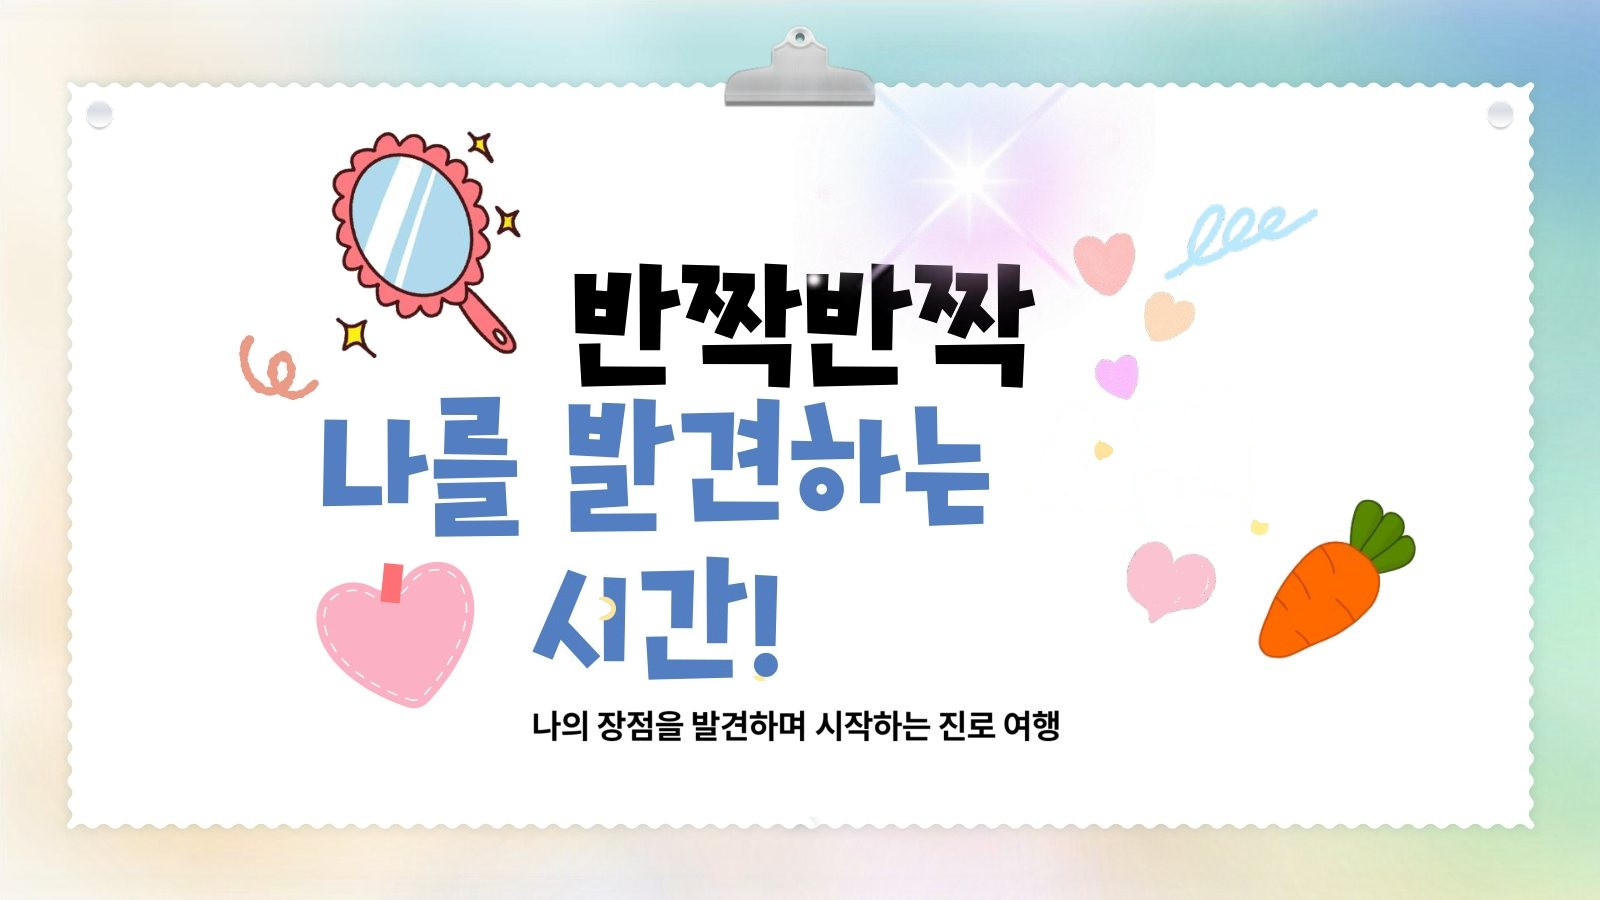
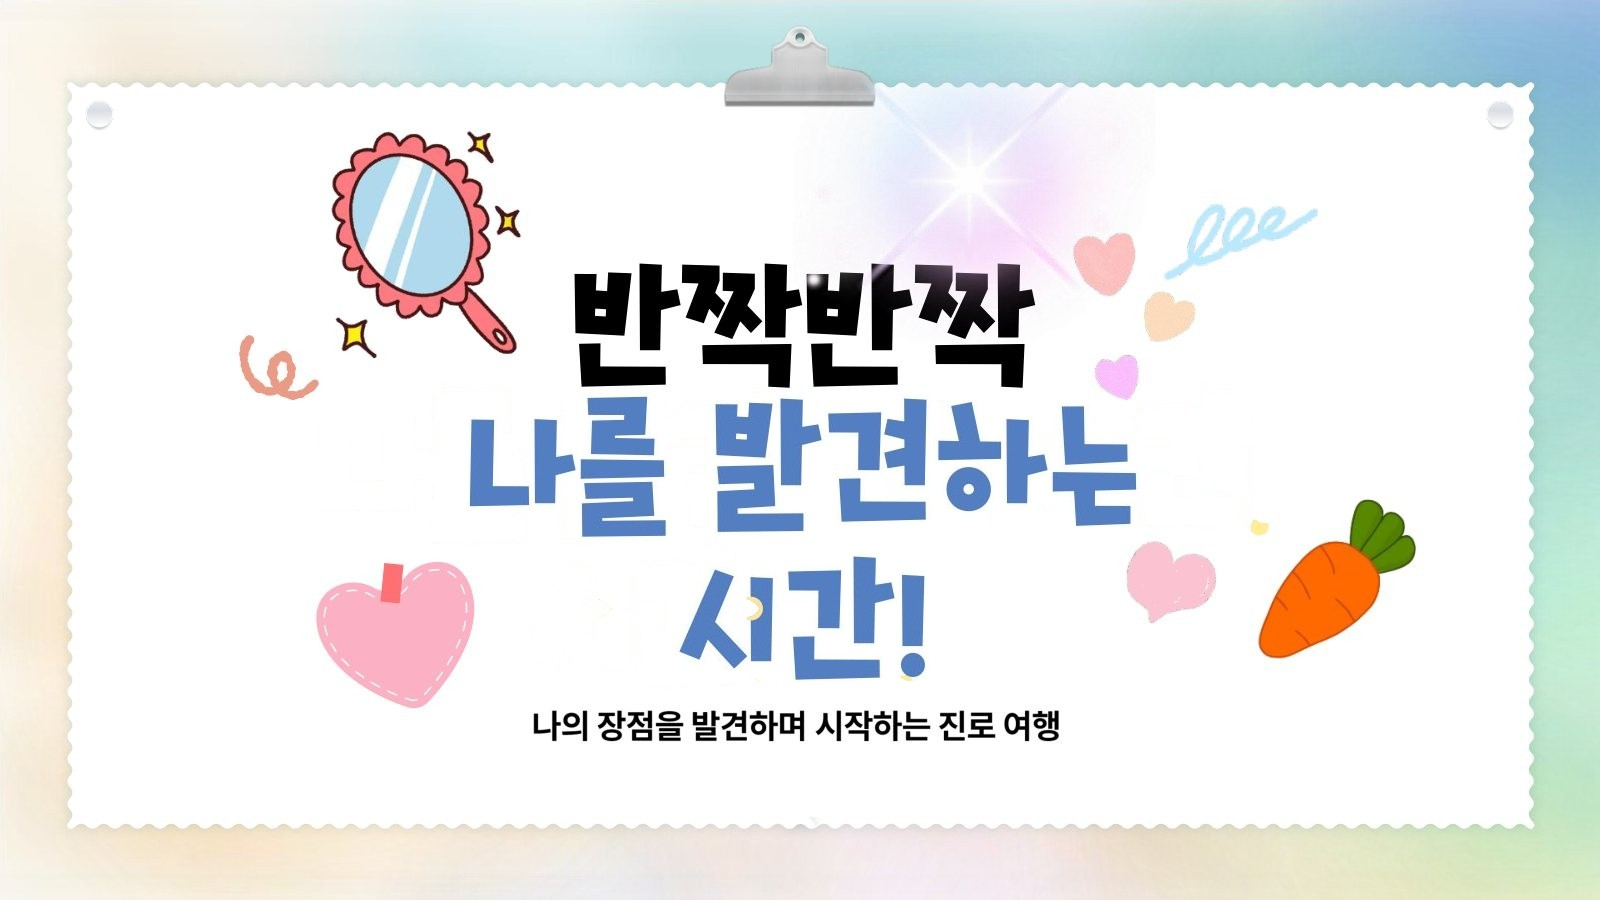
대문 제목 세 줄 가운데 정렬
파란 두 줄(나를 발견하는 / 시간!)이 첫 줄보다 왼쪽에 있어 어긋나 보였다.
글자 모양 마스크로 두 줄을 통째로 오른쪽 147px 옮겨 중심을 맞춤.
결과: 반짝반짝 805 · 나를 발견하는 802 · 시간! 801 (오차 4px 이내)

Claude-Session: https://claude.ai/code/session_01HwcFfa8KNXHyJGf1Wknv3A

Changed region(s): [[0.1875, 0.4356, 0.7188, 0.7778]]

diff --git a/index.html b/index.html
@@ -1982,7 +1982,7 @@
 <script>
 /* 새 버전이 올라오면 브라우저가 옛 화면을 붙들고 있지 않도록 스스로 다시 받아온다 */
 (function(){
-  var APP_VER = "20260910-1415";
+  var APP_VER = "20260910-1537";
   try{
     fetch("version.txt?t=" + Date.now(), {cache:"no-store"})
       .then(function(r){ return r.ok ? r.text() : ""; })
